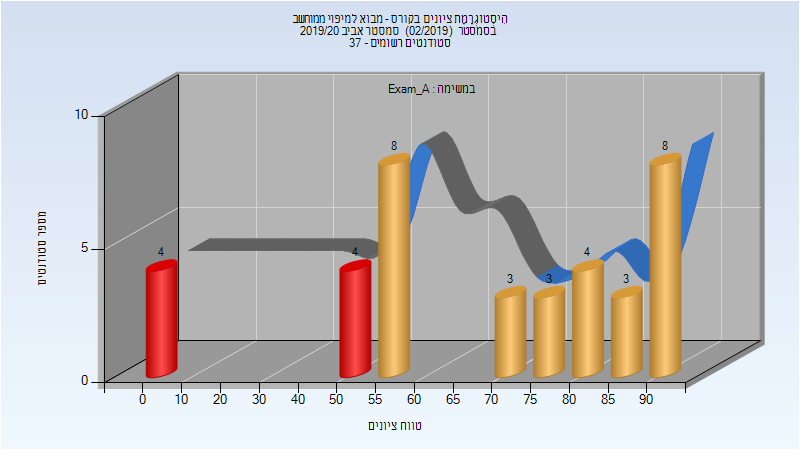
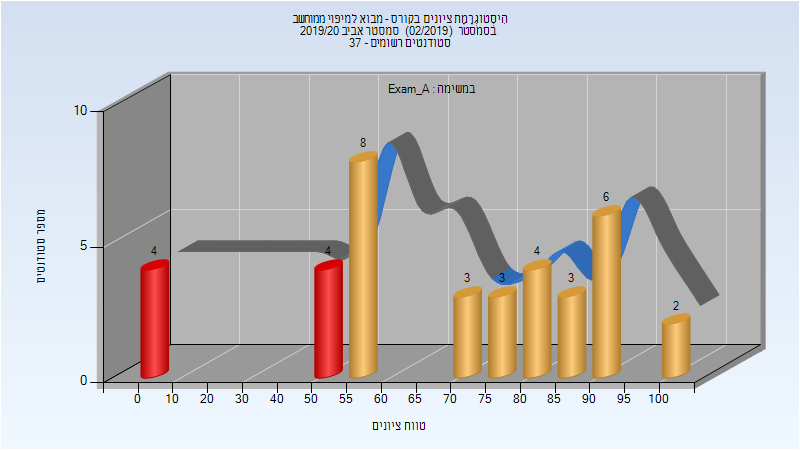
Deploy michael-maltsev/technion-histograms to github.com/michael-maltsev/technion-histograms.git:gh-pages

diff --git a/014845/index.html b/014845/index.html
@@ -307,8 +307,8 @@
 <td>29/8</td>
 <td>78</td>
 <td>0</td>
-<td>90</td>
-<td>65.432</td>
+<td>100</td>
+<td>65.973</td>
 <td>72</td>
 </tr>
 </tbody>
@@ -330,12 +330,12 @@
 <tbody>
 <tr>
 <td>37</td>
-<td>33/4</td>
-<td>89</td>
-<td>22</td>
-<td>94</td>
-<td>73.919</td>
-<td>76</td>
+<td>30/7</td>
+<td>81</td>
+<td>0</td>
+<td>99</td>
+<td>67.459</td>
+<td>69</td>
 </tr>
 </tbody>
 </table>

diff --git a/014845/README.md b/014845/README.md
@@ -92,7 +92,7 @@
 
 | סטודנטים | עברו/נכשלו | אחוז עוברים | ציון מינימלי | ציון מקסימלי | ממוצע | חציון |
 | ---- | ---- | ---- | ---- | ---- | ---- | ---- |
-| 37 | 29/8 | 78 | 0 | 90 | 65.432 | 72 |
+| 37 | 29/8 | 78 | 0 | 100 | 65.973 | 72 |
 
 ### סופי מועד א'
 
@@ -100,5 +100,5 @@
 
 | סטודנטים | עברו/נכשלו | אחוז עוברים | ציון מינימלי | ציון מקסימלי | ממוצע | חציון |
 | ---- | ---- | ---- | ---- | ---- | ---- | ---- |
-| 37 | 33/4 | 89 | 22 | 94 | 73.919 | 76 |
+| 37 | 30/7 | 81 | 0 | 99 | 67.459 | 69 |
 
